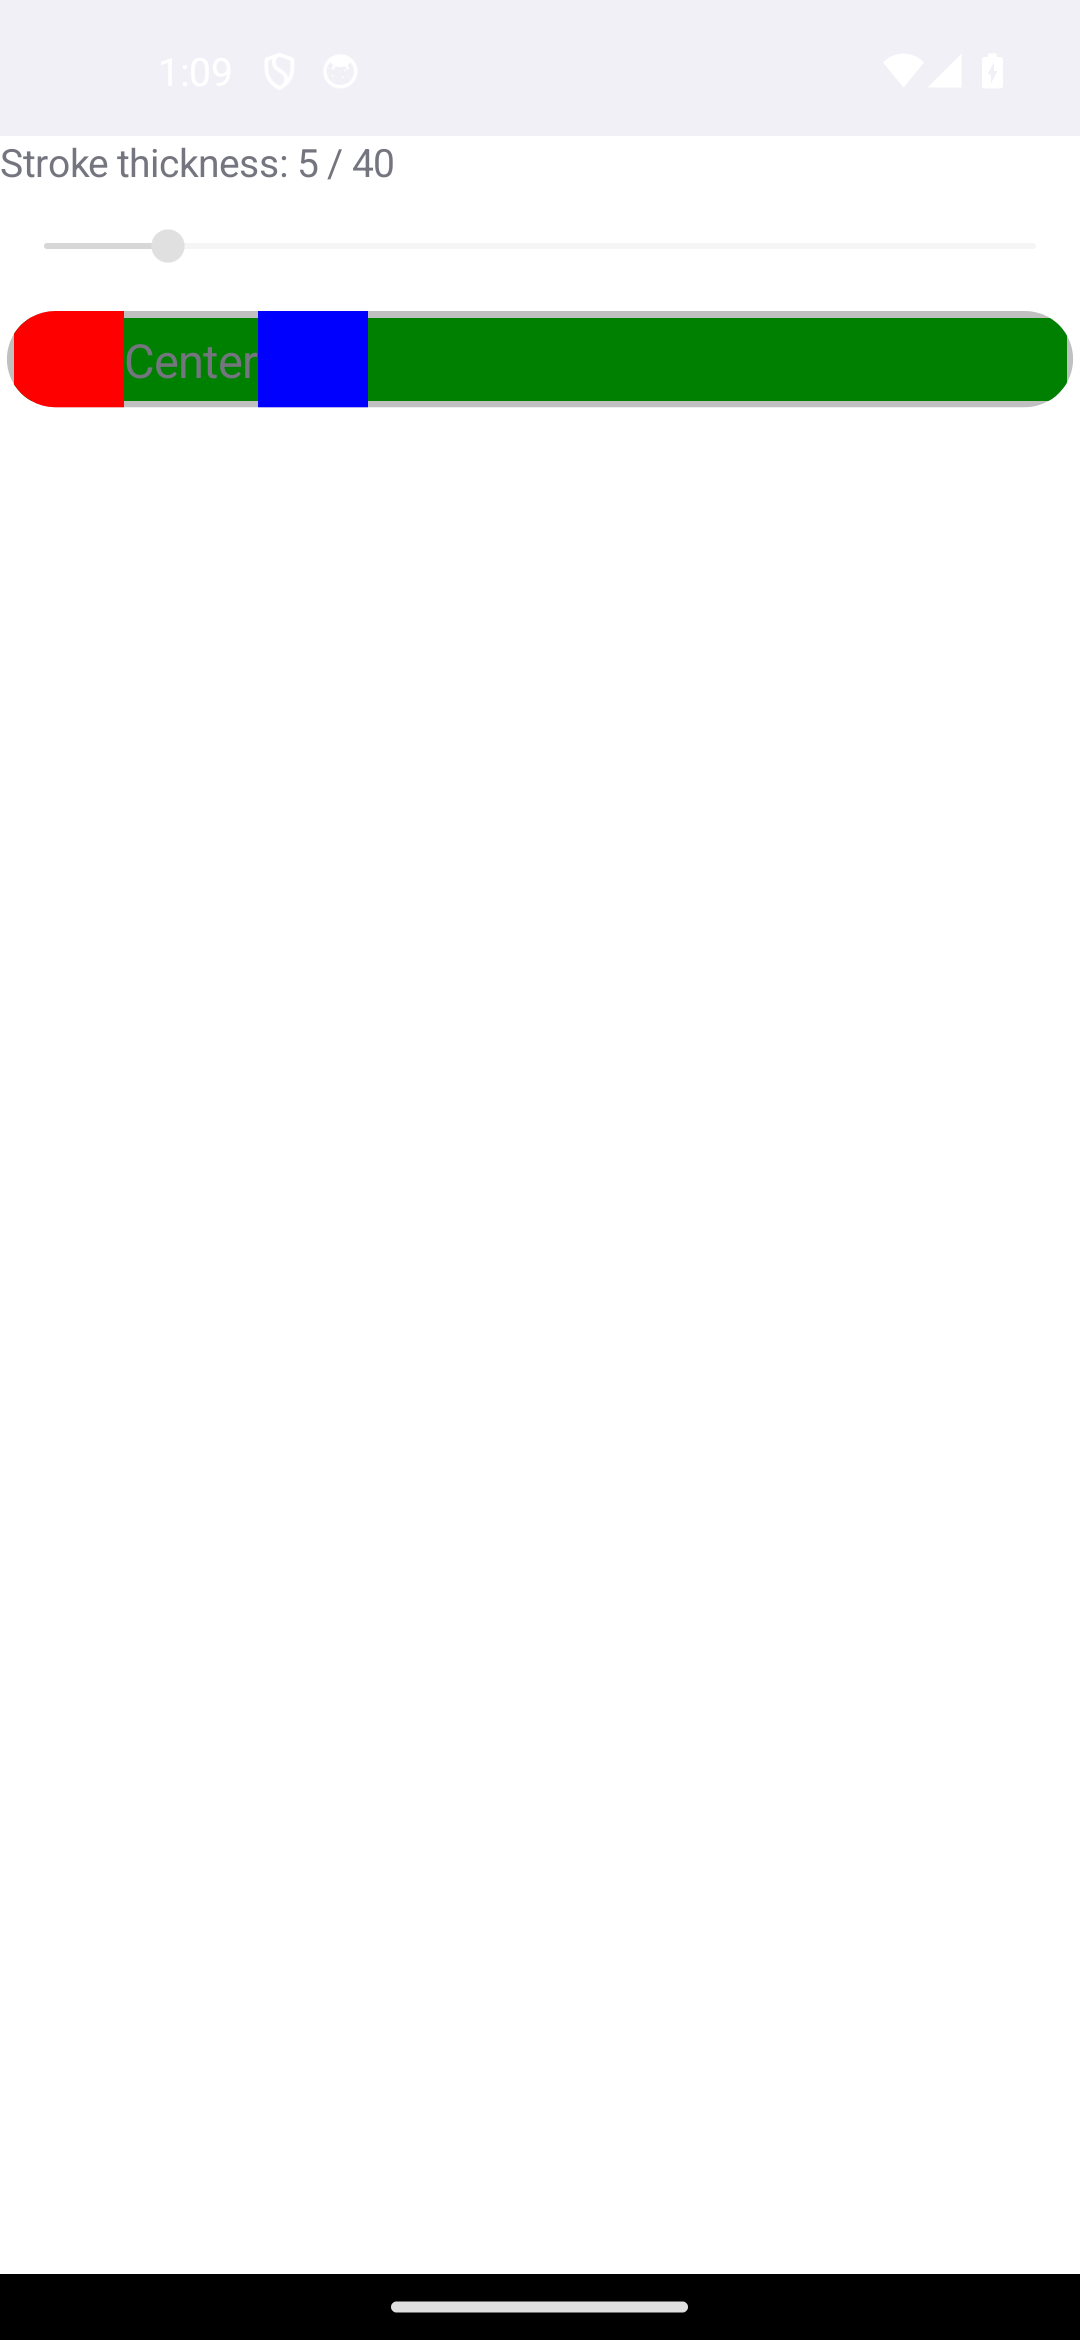
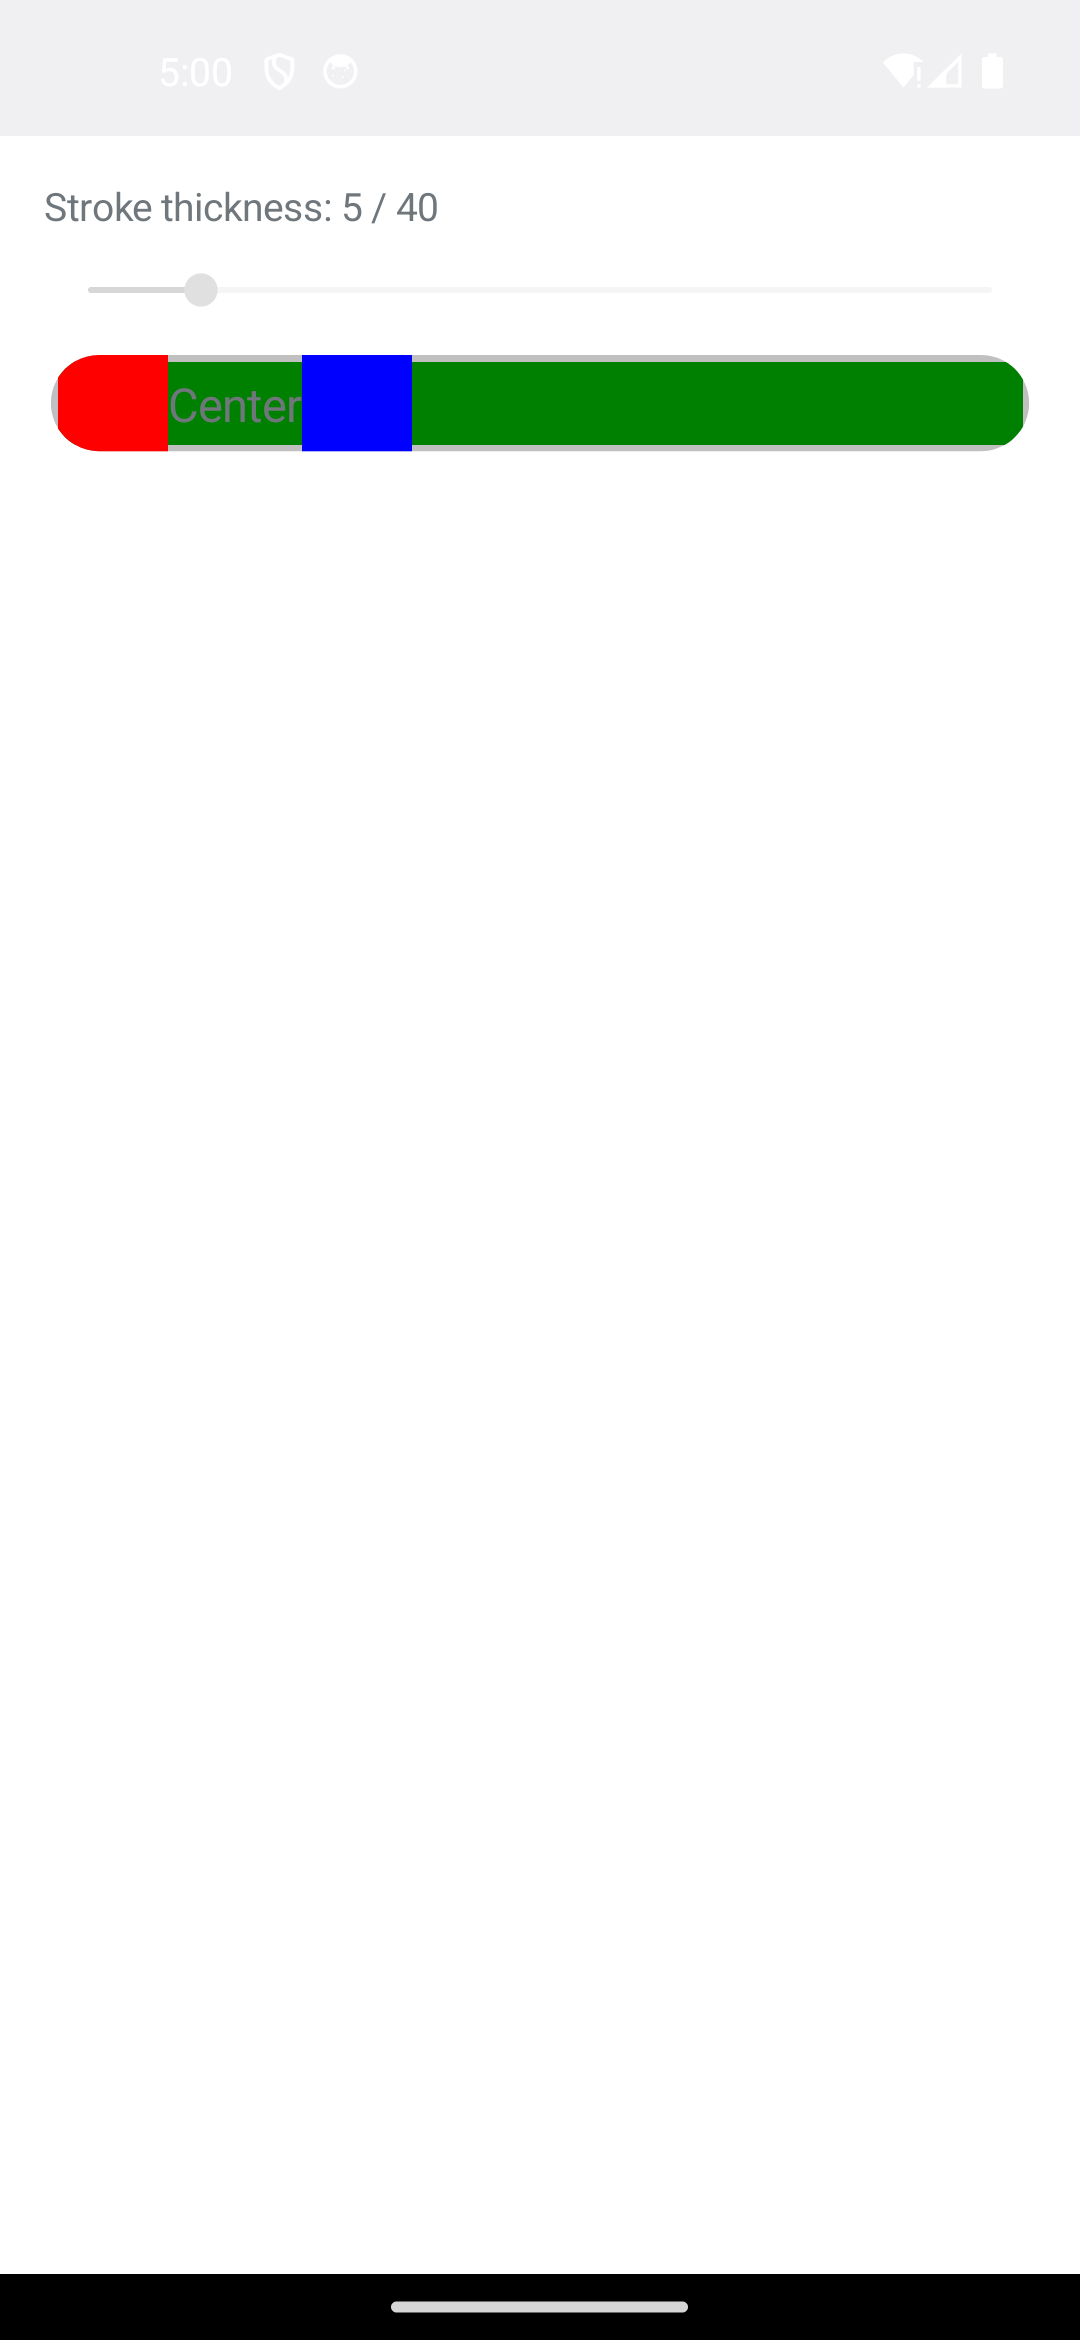
fix(border_layout): recapture stale android cpp -> green (156); root Padding already fixed

Changed region(s): [[0.0, 0.0624, 1.0, 0.2184]]

diff --git a/port/cpp/docs/comparison/README.md b/port/cpp/docs/comparison/README.md
@@ -7363,8 +7363,8 @@ Real .NET MAUI vs the C++ port vs the compile-time-XAML gallery, captured on the
 
 | Classification | Sonnet 5 | Gemini |
 | --- | --- | --- |
-| 🟢 Match | 155 | 0 |
-| 🟡 Minor | 15 | 0 |
+| 🟢 Match | 156 | 0 |
+| 🟡 Minor | 14 | 0 |
 | 🔴 Major | 2 | 0 |
 | ⬛ Blank | 0 | 0 |
 | ⏳ Unreviewed | 23 | 195 |
@@ -7652,16 +7652,16 @@ _Not yet reviewed._
 
 _Not yet computed — no automated pixel-diff score is recorded for this page yet._
 
-### 16. Border Layout — 🟡/⏳
+### 16. Border Layout — 🟢/⏳
 <sub>border_layout</sub>
 
 <table><tr><th></th><th>MAUI</th><th>C++</th><th>C++ &amp; XAML</th></tr><tr><th>Light</th><td><img width="300px" src="../../../maui-reference/captures/android/border_layout_light.png" /></td><td><img width="300px" src="captures/android/cpp/border_layout_light.png" /></td><td><img width="300px" src="captures/android/xaml/border_layout_light.png" /></td></tr><tr><th>Dark</th><td><img width="300px" src="_placeholder.png" /></td><td><img width="300px" src="_placeholder.png" /></td><td><img width="300px" src="_placeholder.png" /></td></tr></table>
 
 ports BorderLayout.xaml (+ BorderLayout.xaml.cs) The C# page demonstrates driving Border.StrokeThickness from a Slider: a Slider (0..40, set to 5 in OnAppearing) is bound to the Border&amp;#x27;s StrokeThickness; the Border (Silver stroke, White bac
 
-#### 🟡 Sonnet 5 Review
+#### 🟢 Sonnet 5 Review
 
-MAUI's bordered bar sits inset from the screen edges showing full rounded corners on both ends, while cpp's bar runs flush to the left screen edge, clipping off the left rounded corner and red segment.
+Match. After a fresh recapture with the current binary (the root-Padding builder fix, commit 6a913b04aa, postdated the prior 2026-07-05 android capture), cpp now shows the full 16dp VerticalStackLayout padding on all sides: the "Stroke thickness" readout, slider and Silver-stroked RoundRectangle bar are inset from the screen edges with both rounded ends fully visible, matching MAUI. Residual pixel SSIM (0.947) is the usual android status-bar-clock + wide-color-bar antialiasing noise shared by every android green.
 
 #### ⏳ Gemini Review
 
